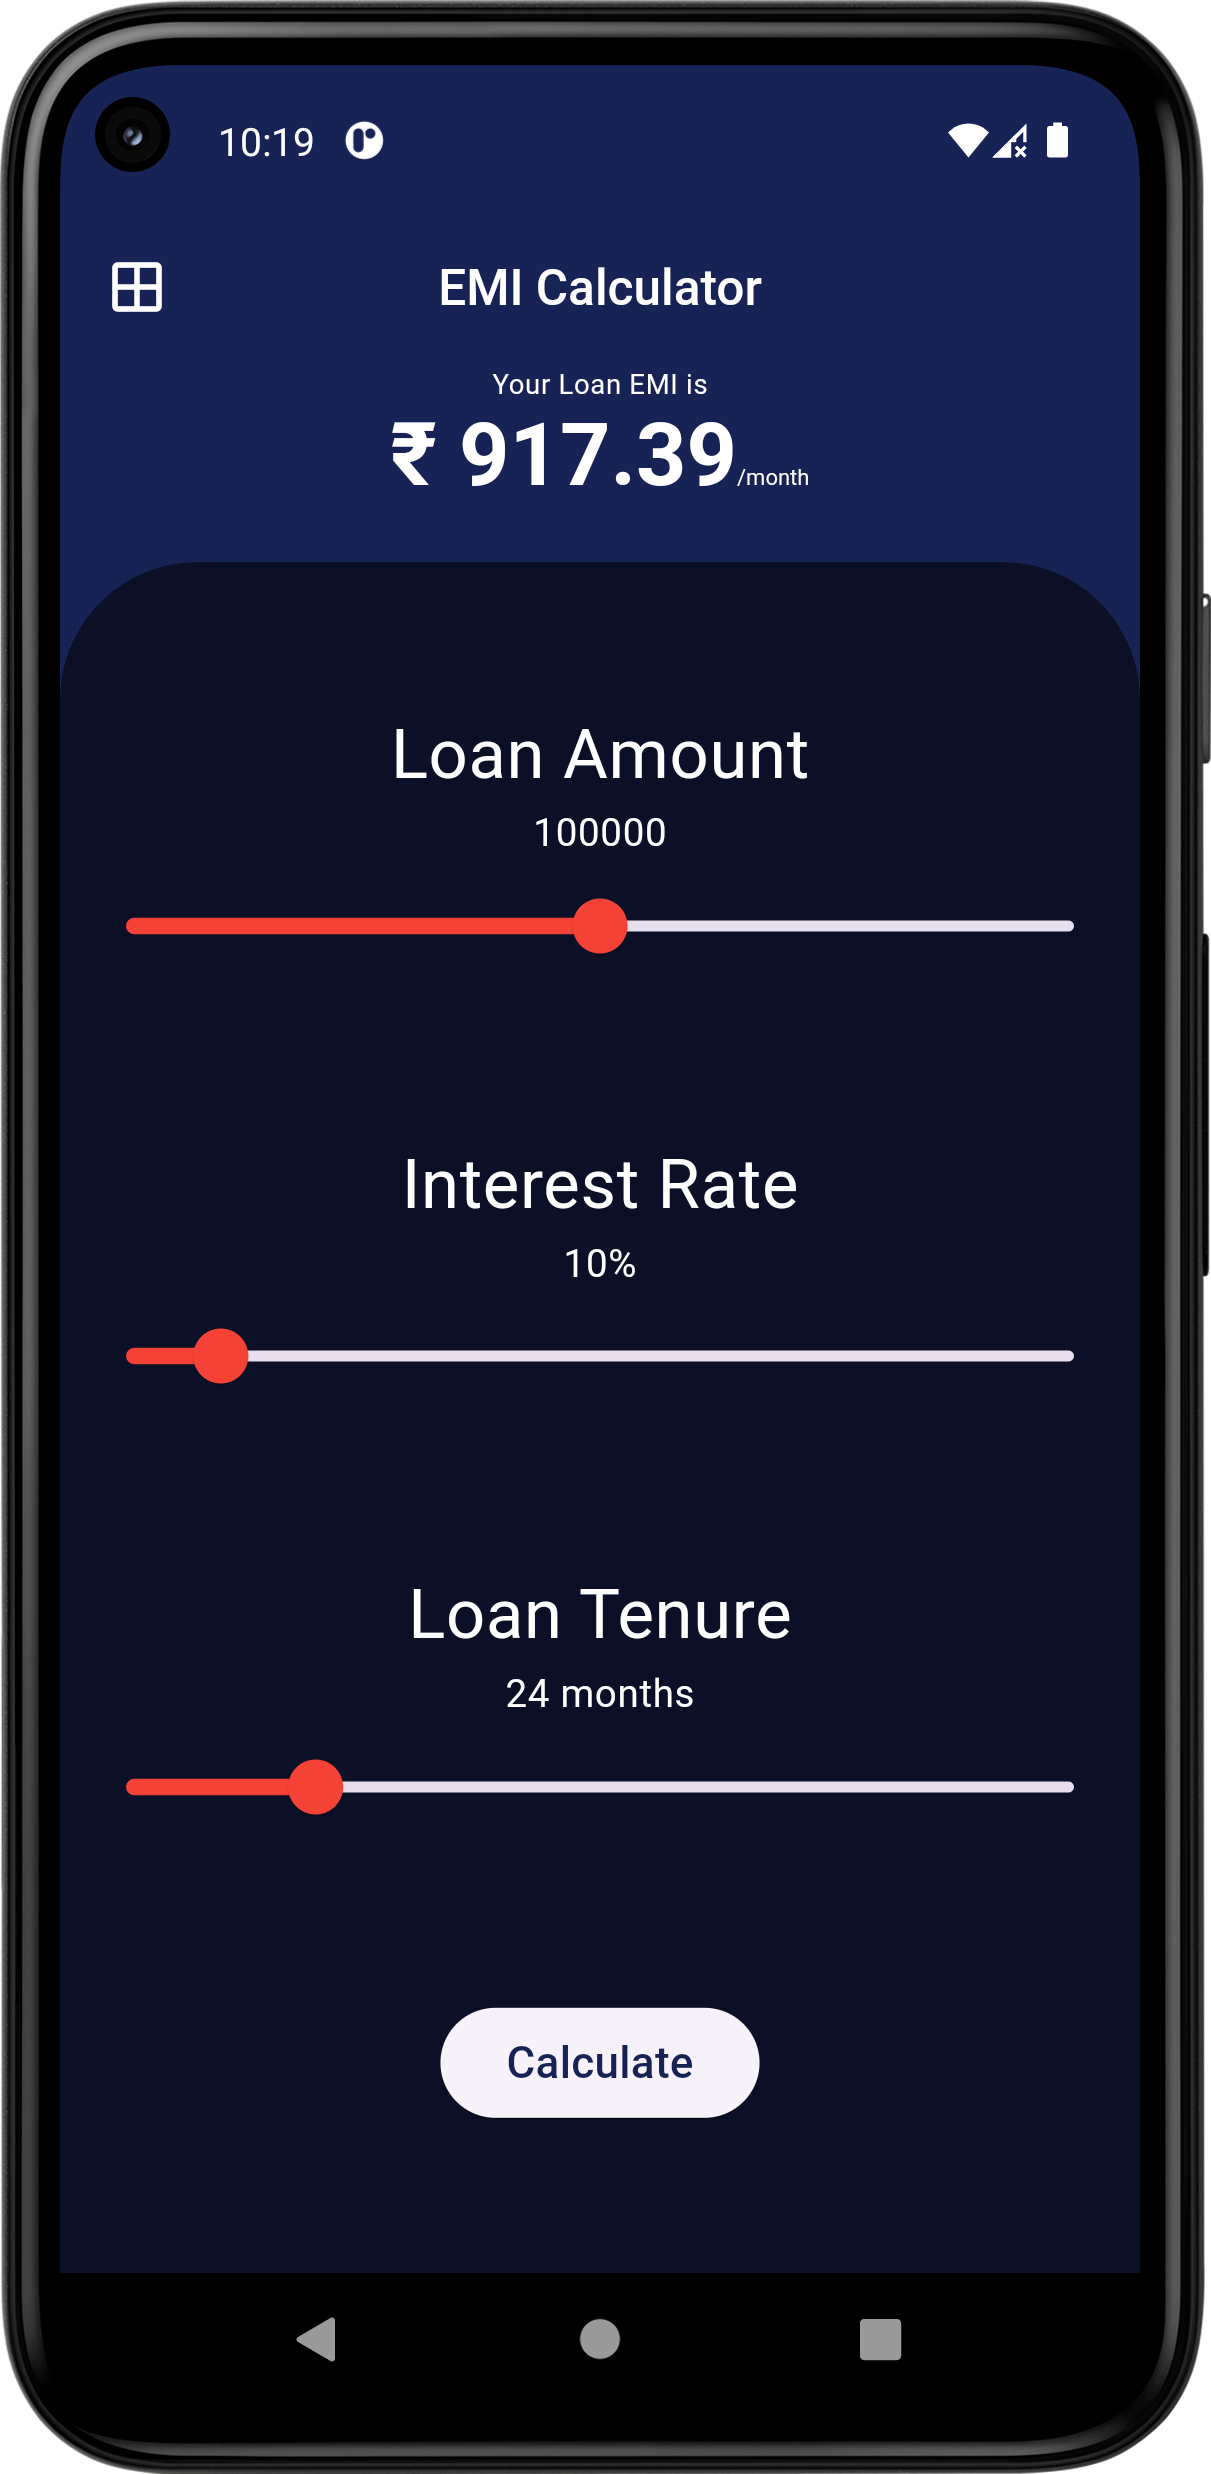
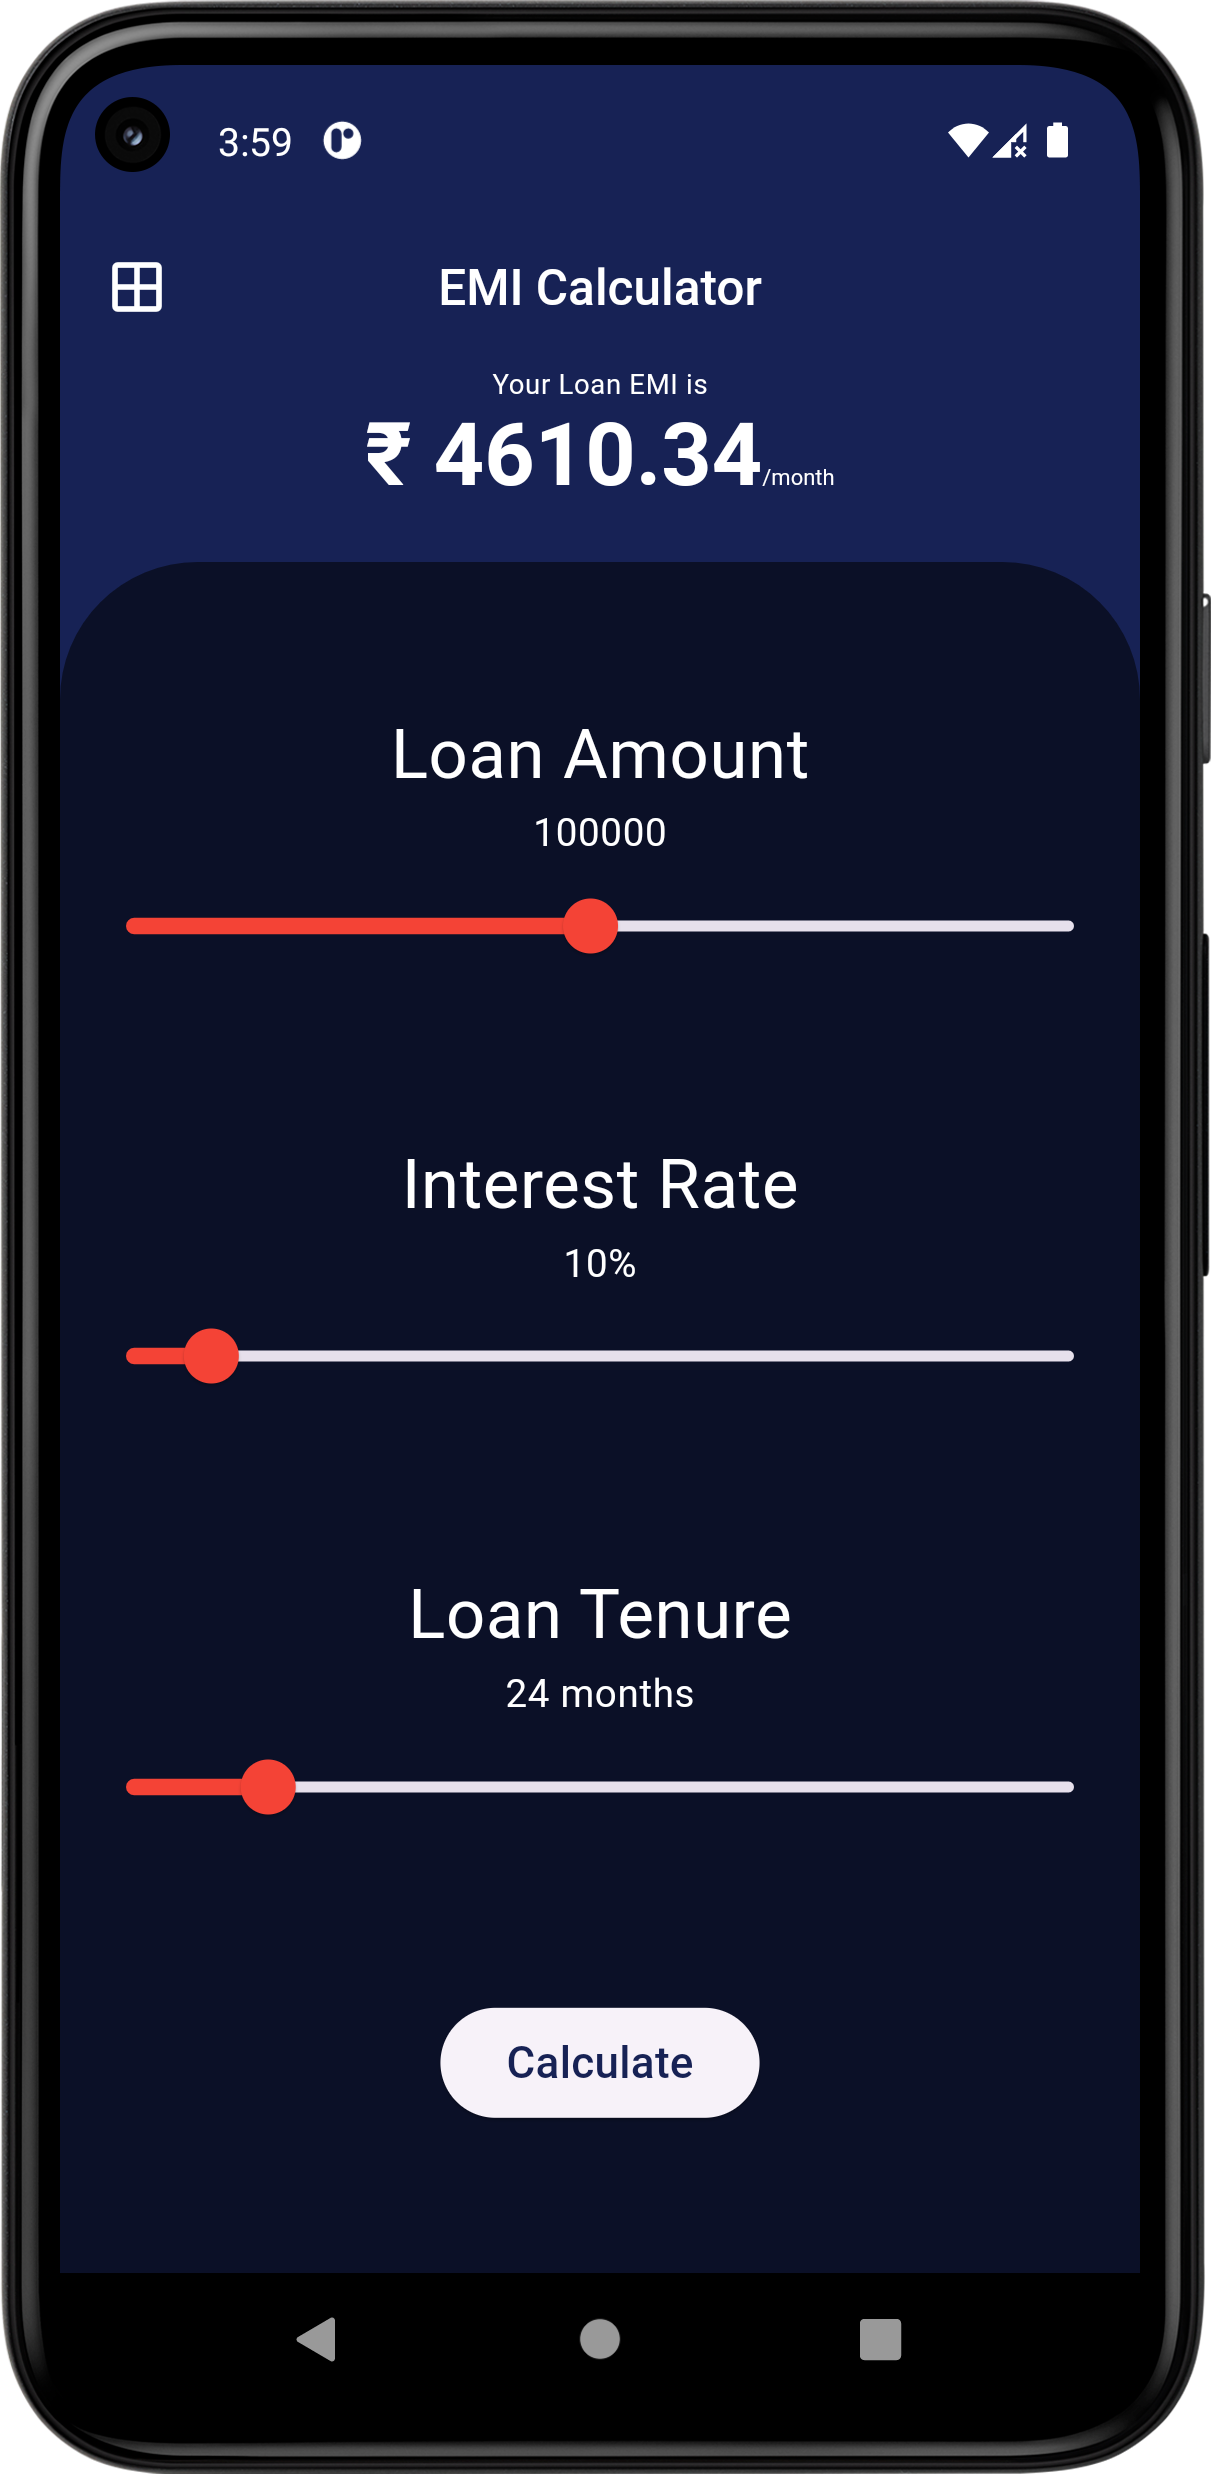
16-02-2024

diff --git a/lib/EMI_Calculator/emi_calculator.dart b/lib/EMI_Calculator/emi_calculator.dart
@@ -9,7 +9,7 @@ class EmiCalculator extends StatefulWidget {
 
 double EMIAmt = 0;
 double loanAmt = 100000;
-double interestRate = 10;
+double interestRate = 1;
 double tenure = 24;
 
 class _EmiCalculatorState extends State<EmiCalculator> {
@@ -75,7 +75,7 @@ class _EmiCalculatorState extends State<EmiCalculator> {
                           ),
                           Slider(
                             value: loanAmt,
-                            min: 0,
+                            min: 5000,
                             max: 200000,
                             divisions: 100,
                             activeColor: Colors.red,
@@ -99,7 +99,7 @@ class _EmiCalculatorState extends State<EmiCalculator> {
                           ),
                           Slider(
                             value: interestRate,
-                            min: 0,
+                            min: 1,
                             max: 100,
                             divisions: 100,
                             activeColor: Colors.red,
@@ -123,7 +123,7 @@ class _EmiCalculatorState extends State<EmiCalculator> {
                           ),
                           Slider(
                             value: tenure,
-                            min: 0,
+                            min: 6,
                             max: 120,
                             divisions: 60,
                             activeColor: Colors.red,
